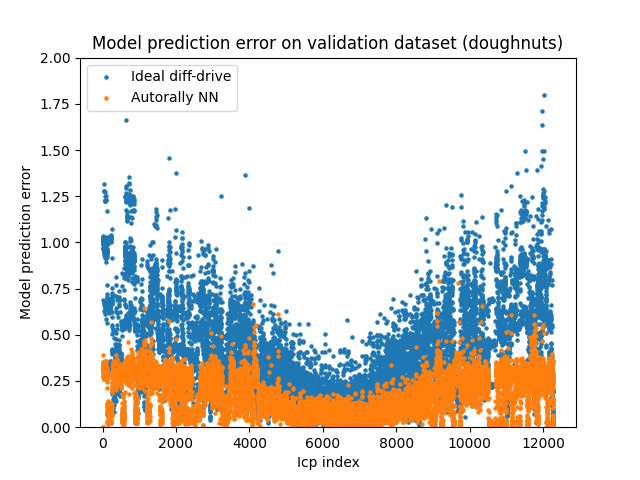
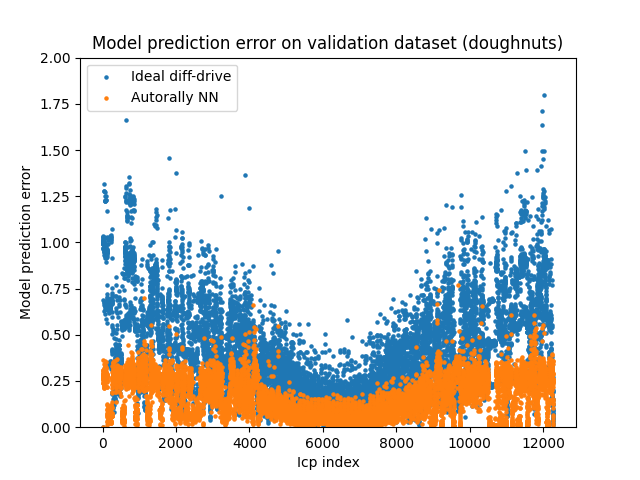
fixed more dtype issues

diff --git a/models/neural_network.py b/models/neural_network.py
@@ -44,7 +44,7 @@ class MotionNetwork(nn.Module):
 
     def predict(self, X, curr_kinematic_pose, dt):
         """
-        A function that predicts the next kinematic state based on current state and input
+        A method that predicts the next kinematic state based on current state and input
         :param X: input vector (dynamic state and command)
         :param curr_kinematic_pose: current kinematic pose [x, y, yaw] in world frame
         :param dt: time step

diff --git a/eval/model_error.py b/eval/model_error.py
@@ -106,7 +106,7 @@ for i in range(data.shape[0] - 1):
 
     X = np.hstack((nn_dyn_pose, cmds[i, 0]))
     X = np.hstack((X, cmds[i, 2]))
-    nn_kin_pose, nn_dyn_pose = motion_network.predict(torch.from_numpy(X).float(),
+    nn_kin_pose, nn_dyn_pose = motion_network.predict(torch.from_numpy(X),
                                                 nn_kin_pose, dt)
     nn_kin_pose[2] = wrap2pi(nn_kin_pose[2])
 
